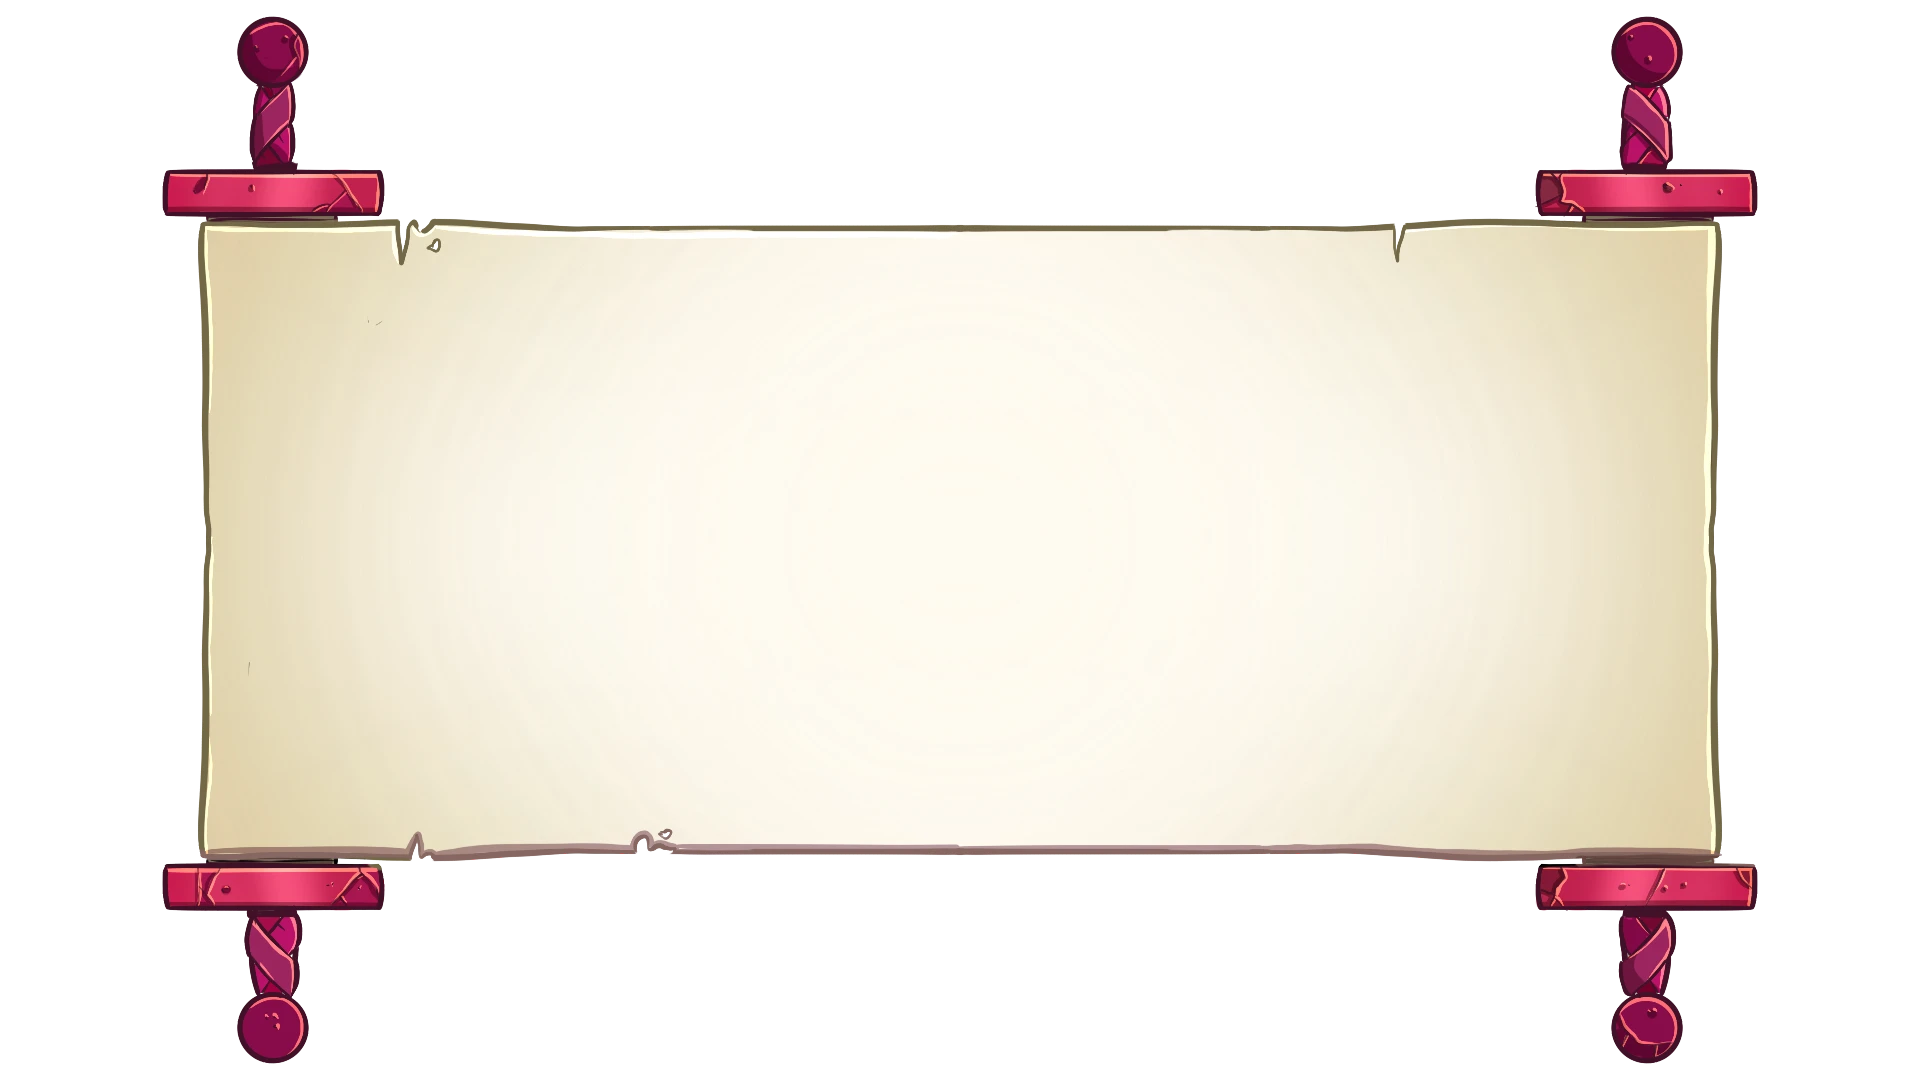
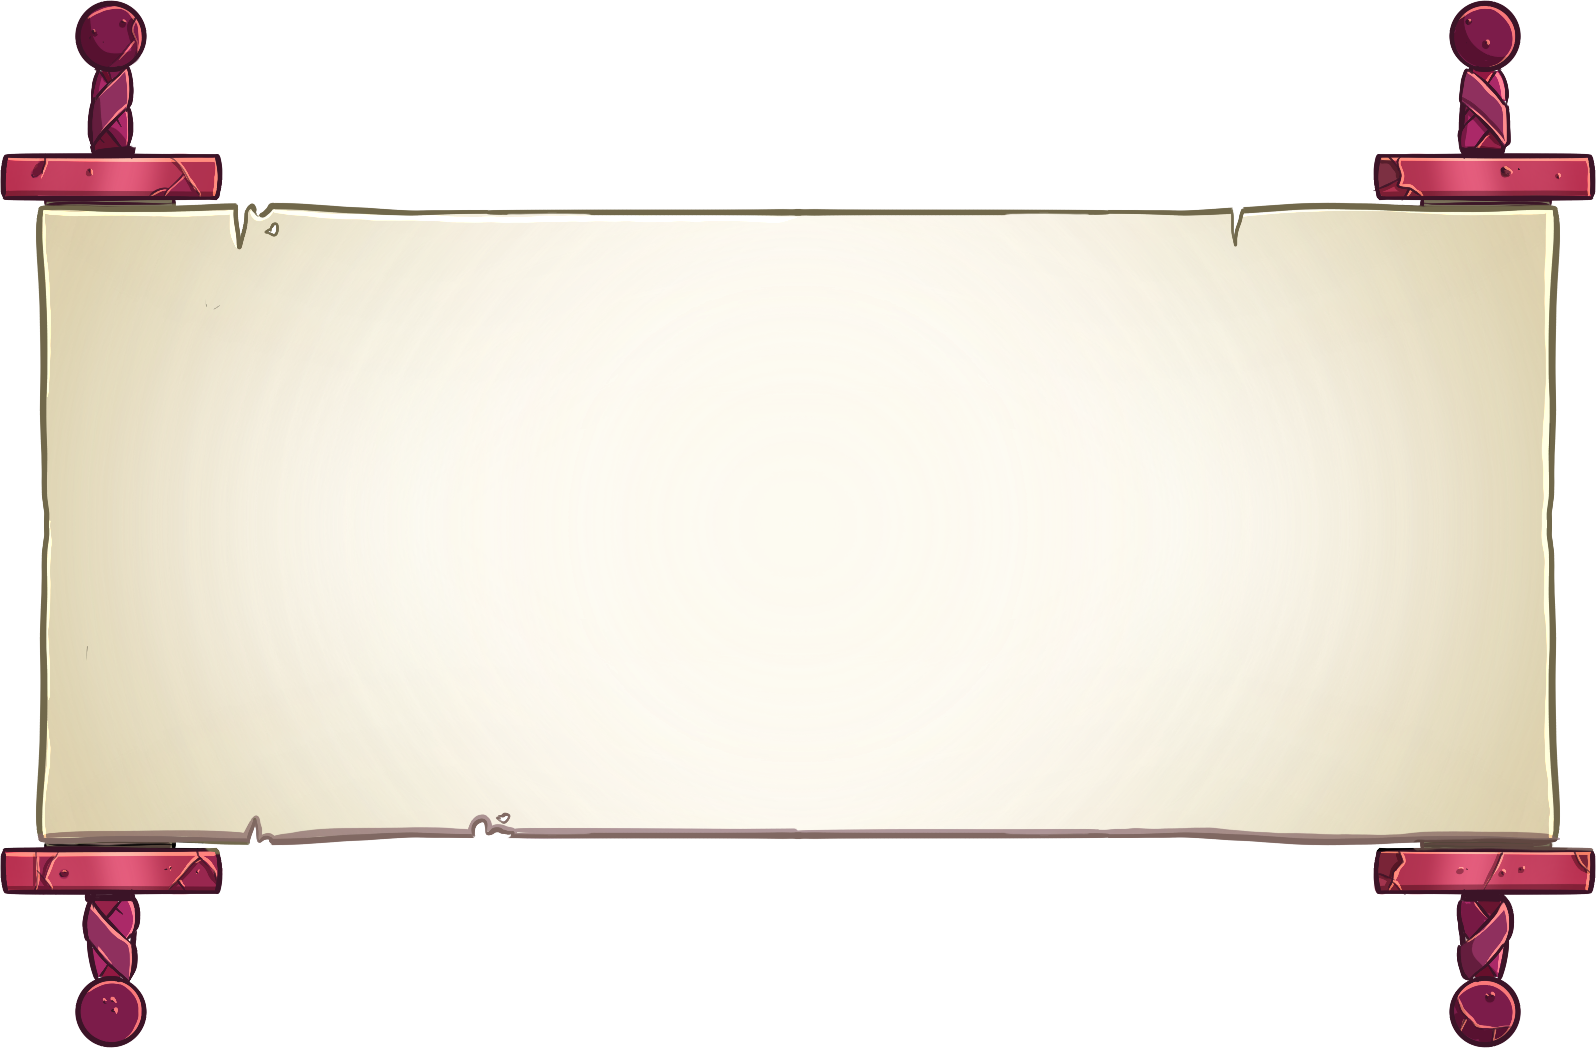
fix: l'image du Volumen sort de cleanimage, rognée et sans perte
Le parchemin vient du PNG d'origine, passé par scripts/img-trim-webp.sh :
rogné au ras des rouleaux (1596×1048), en webp sans perte. Les repères de
question-log-scroll-metrics sont recalés sur le calque rogné ; la marge
transparente (--margin) disparaît.

Changed region(s): [[0.0, 0.0, 1.0, 1.0]]

diff --git a/assets/css/main.css b/assets/css/main.css
@@ -743,34 +743,35 @@
   }
 }
 
-/* Le calque du Volumen (public/images/volumen-scroll.webp, 1920×1080) : ses
+/* Le calque du Volumen (public/images/volumen-scroll.webp, 1596×1048, rogné
+   par scripts/img-trim-webp.sh : les rouleaux touchent ses bords) : ses
    repères, relevés à la main, en pixels du calque. Une nouvelle image, de
    nouvelles mesures — ici seulement : pages/index/volumen.vue et les keyframes
    unroll / roll-up les lisent. Posé sur la boîte de dialogue, hérité par tout
    ce qu'elle contient. */
 @utility question-log-scroll-metrics {
-  /* Pixels affichés par pixel du calque : la taille des rouleaux. */
+  /* Pixels affichés par pixel du calque : la taille des rouleaux. Calée sur
+     le dessin d'origine (1920×1080, avant rognage), dont le calque garde
+     l'échelle. */
   --k: calc(min(100vw / 1920, 100dvh / 1080) * 0.9);
-  /* Le vide transparent à gauche et à droite des rouleaux. */
-  --margin: 163;
   /* Un rouleau : sa largeur, le centre du gauche, celui du droit depuis le
      bord droit, et la hauteur de leurs poignées du haut. */
   --rod-w: 221;
-  --rod-l: 273;
-  --rod-r: 274;
-  --cap-y: 190;
+  --rod-l: 111;
+  --rod-r: 112;
+  --cap-y: 174;
   /* Le haut du papier, sous les poignées ; le retrait du texte des bords. */
-  --paper-y: 215;
-  --text-x: 240;
+  --paper-y: 199;
+  --text-x: 78;
   /* Les coupes du 9-slice : les coins gardent les rouleaux intacts, le
      papier s'étire entre eux. */
-  --cut-t: 250;
-  --cut-r: 390;
-  --cut-b: 245;
-  --cut-l: 410;
+  --cut-t: 234;
+  --cut-r: 228;
+  --cut-b: 229;
+  --cut-l: 248;
   /* Le fond uni posé sous le papier, un peu en retrait de ses bords. */
-  --fill-x: 215;
-  --fill-y: 232;
+  --fill-x: 53;
+  --fill-y: 216;
   /* Roulé : le papier dévoilé jusqu'au rouleau droit, posé contre le gauche,
      et le décalage de ce rouleau depuis sa place déroulée. Lus par les
      keyframes, mesurés sur la boîte de qui les lit (les 100 %). */

diff --git a/pages/index/volumen.vue b/pages/index/volumen.vue
@@ -14,14 +14,14 @@
 
          Le bas du parchemin — bord du papier et rouleaux — tombe sous l'écran :
          seules les poignées du haut se voient, et le papier descend jusqu'en bas
-         pour laisser plus de place à la lecture. En largeur, les marges
-         transparentes du calque sortent de l'écran : les rouleaux se posent à
-         4 % des bords, quelle que soit la largeur. Repères du calque :
+         pour laisser plus de place à la lecture. En largeur, le calque est
+         rogné au ras des rouleaux : ils se posent à 4 % des bords de l'écran,
+         quelle que soit la largeur. Repères du calque :
          `question-log-scroll-metrics`, dans main.css. `overflow-clip` et non `hidden` : une
          boîte `hidden` se fait défiler par le navigateur pour montrer ce qui
          prend le focus, et décalait tout le parchemin vers le haut. -->
     <div
-      class="relative mt-[6dvh] h-[round(calc(94dvh+var(--k)*var(--cut-b)),1px)] w-[round(calc(92vw+var(--k)*var(--margin)*2),1px)] shrink-0 origin-bottom"
+      class="relative mt-[6dvh] h-[round(calc(94dvh+var(--k)*var(--cut-b)),1px)] w-[round(92vw,1px)] shrink-0 origin-bottom"
       :class="closing ? 'motion-safe:animate-sink [--enter-delay:0.12s]' : 'motion-safe:animate-rise'"
       @click.self="close"
     >
@@ -43,7 +43,7 @@
       <!-- Le papier attrape ses clics : seuls les vides autour des rouleaux
            ferment. Il couvre d'un rouleau à l'autre, du haut du papier au bas
            de la boîte. -->
-      <div class="absolute inset-x-[calc(var(--k)*var(--margin))] top-[calc(var(--k)*var(--paper-y))] bottom-0" />
+      <div class="absolute inset-x-0 top-[calc(var(--k)*var(--paper-y))] bottom-0" />
 
       <!-- Le titre, posé au-dessus du papier entre les deux poignées, dans
            l'éclat des noms du camp. Il jaillit pendant le déroulé, quand le
